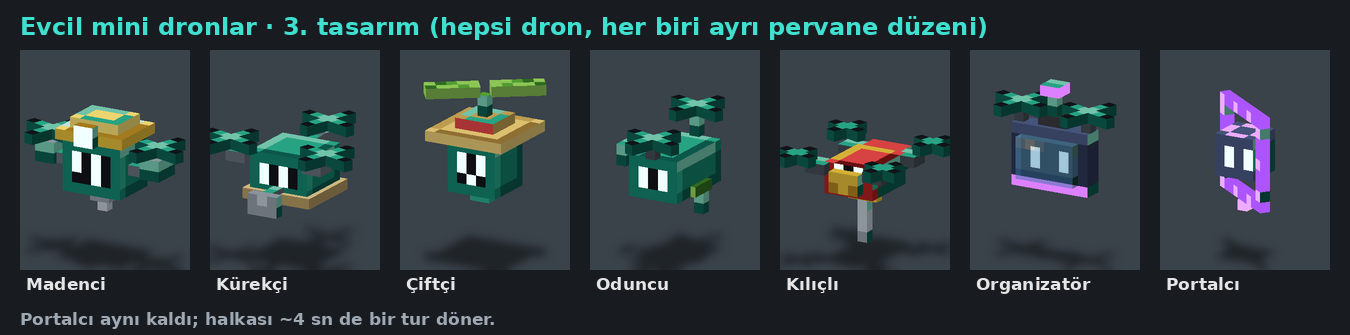
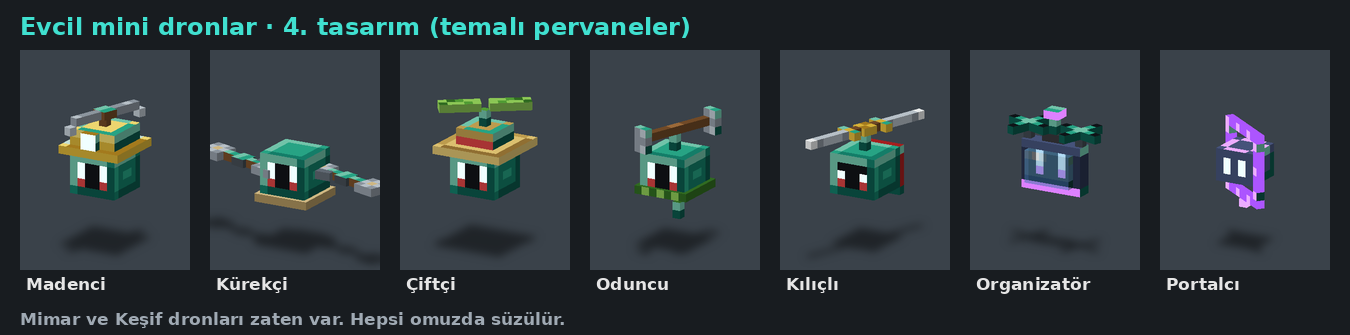
Evcil dronlar 4. tasarım: Mimar dronu yüzü (simetrik gözler), temalı pervaneler (kazma, kaşık, filiz, balta, kılıç)
Claude-Session: https://claude.ai/code/session_016dSUtqjRQFdnbyLYXoqgnG

diff --git a/aqualit/tasarim/evcil.py b/aqualit/tasarim/evcil.py
@@ -34,115 +34,113 @@ def pervane(f, bone, ad, c, r, y, eksen='y'):
              front=[[c_] for c_ in ('kL' + 'H' * (2 * r - 4) + 'Lk')[:2 * r]])
 
 
-def yuz(w, h, renk='M', sert=False, agiz=True):
-    """Dron yüzü: koyu ekran, iki ışıklı göz, küçük ağız (Mimar dronu gibi sevimli)."""
-    g = fill(w, h, renk)
-    for y in range(1, h - 1):
-        for x in range(1, w - 1):
-            g[y][x] = 'k'
-    ex = [1, w - 3] if w >= 6 else [1, w - 2]
-    for x in ex:
-        if sert:
-            g[1][x] = 'k'; g[1][x + (1 if x == ex[0] else -1) * 0] = 'k'
-            g[2][x] = 'W'
-            if x + 1 < w - 1:
-                g[2][x + 1] = 'W'
-        else:
-            g[1][x] = 'W'; g[2][x] = 'W'
-            if w >= 7 and x + 1 < w - 1:
-                g[1][x + 1] = 'W'; g[2][x + 1] = 'W'
-    if agiz and h >= 5:
-        g[h - 2][w // 2] = 'W' if not sert else 'k'
+from robot import plate, put, G
+
+
+def yuz6(renk='M', sert=False):
+    """Mimar dronundaki yüz (6x5): iki dik göz, gülen ağız, pembe yanaklar. sert: kısık gözler, düz ağız."""
+    g = plate(6, 5, renk, top='H', bottom='D', left='H', right='D')
+    put(g, ['WkkW', 'WkkW'] if not sert else ['kkkk', 'WkkW'], 1, 1)
+    if sert:
+        g[3][2] = g[3][3] = 'k'
+        g[3][1] = g[3][4] = 'R'
+    else:
+        g[3][2] = g[3][3] = 'k'
+        g[3][1] = g[3][4] = 'R'
     return g
 
 
+def govde6(f, renk='M', sert=False, y0=3):
+    """Mimar dronu boyunda gövde (6x5x6), önde yüz."""
+    yan = plate(6, 5, renk, top='H', bottom='D', left='L', right='D')
+    yan[2][2] = yan[2][3] = 'L'
+    kutu(f, 'g', 'govde', (-3, y0, -3), (3, y0 + 5, 3), base=renk, front=yuz6(renk, sert), left=yan,
+         right=[r[:] for r in yan], back=plate(6, 5, renk), top=plate(6, 6, 'L', top='H', bottom='M', left='H', right='M'),
+         glow='W')
+
+
 def madenci(f):
-    # gövde + madenci kaskı ve fener; iki yan kanatçıkta döner (tilt) pervaneler; altta mini matkap ucu
-    kutu(f, 'g', 'govde', (-3, 3, -2.5), (3, 8, 2.5), base='M', front=yuz(6, 5), glow='W',
-         top=panel(6, 5, 'L', t='H', b='D', l='H', r='D'))
-    kutu(f, 'g', 'kask', (-3.5, 8, -3), (3.5, 9, 3), base='y', top=panel(7, 6, 'Y', t='W', b='Q', l='W', r='Q'))
-    kutu(f, 'g', 'kask2', (-2.5, 9, -2), (2.5, 10, 2), base='Y')
-    kutu(f, 'g', 'fener', (-1, 8, 3), (1, 10, 4), base='Q', front=rows('WW', 'WW'), glow='W')
-    for ad, sx in (('l', -1), ('r', 1)):
-        kutu(f, 'g', 'kanat_' + ad, (min(sx * 3, sx * 5), 5, -1), (max(sx * 3, sx * 5), 6, 1), base='&')
-        kutu(f, 'g', 'nasel_' + ad, (sx * 5.5 - 1, 5, -1.5), (sx * 5.5 + 1, 7, 1.5), base='%', top=fill(2, 3, '*'))
-        pervane(f, 'g', 'p_' + ad, (sx * 5.5, 7.5, 0), 3, 7.5)
-    kutu(f, 'g', 'matkap1', (-1, 2, -1), (1, 3, 1), base='*')
-    kutu(f, 'g', 'matkap2', (-0.5, 1, -0.5), (0.5, 2, 0.5), base='+')
+    # madenci kaskı + fener; tepede kazma başı biçimli pervane (iki sivri ucu hafif aşağı kıvrık)
+    govde6(f)
+    kutu(f, 'g', 'kask', (-4, 8, -4), (4, 9, 4), base='y', top=panel(8, 8, 'Y', t='W', b='Q', l='W', r='Q'))
+    kutu(f, 'g', 'kask2', (-3, 9, -3), (3, 11, 3), base='Y', front=rows('YYYYYY', 'yyyyyy'))
+    kutu(f, 'g', 'fener', (-1, 9, 3), (1, 11, 4), base='Q', front=rows('WW', 'WW'), glow='W')
+    kutu(f, 'g', 'mil', (-0.5, 11, -0.5), (0.5, 12, 0.5), base='m')
+    f.bone('p_kazma', 'g', (0, 12.5, 0))
+    kutu(f, 'p_kazma', 'kz_gobek', (-1, 12, -1), (1, 13, 1), base='m')
+    kutu(f, 'p_kazma', 'kz_kol', (-5, 12, -0.5), (5, 13, 0.5), base='*', top=rows('+*******+*'), front=rows('**********'))
+    for ad, x in (('l', -6), ('r', 5)):
+        kutu(f, 'p_kazma', 'kz_uc_' + ad, (x, 11, -0.5), (x + 1, 12, 0.5), base='+')
 
 
 def kurekci(f):
-    # yassı gövde; Y düzeninde üç pervane (önde iki, arkada bir); kum rengi alt etek; önde mini kepçe kolu
-    kutu(f, 'g', 'govde', (-3, 3, -3), (3, 7, 3), base='M', front=yuz(6, 4, agiz=False), glow='W',
-         top=panel(6, 6, 'L', t='H', b='D', l='H', r='D'))
-    kutu(f, 'g', 'etek', (-3.5, 2.5, -3.5), (3.5, 3.5, 3.5), base='N', top=fill(7, 7, 'n'))
-    for ad, (x, z) in (('fl', (-5, 3)), ('fr', (5, 3)), ('b', (0, -6))):
-        a = (min(0, x) if x else -0.5, 6, min(0, z)); b = (max(0, x) if x else 0.5, 7, max(0, z))
-        if x == 0:
-            a, b = (-0.5, 6, z), (0.5, 7, -3)
-        else:
-            a, b = (min(x * 0.6, x), 6, min(z * 0.6, z) - 0.5 + 0.5), (max(x * 0.6, x), 7, max(z * 0.6, z) + 0.5 + 0.5)
-            a = (round(a[0]), 6, round(a[2])); b = (round(b[0]), 7, round(b[2]))
-            if b[2] - a[2] < 1:
-                b = (b[0], 7, a[2] + 1)
-        kutu(f, 'g', 'kol_' + ad, a, b, base='&')
-        pervane(f, 'g', 'p_' + ad, (x, 7.5, z), 3, 7.5)
-    kutu(f, 'g', 'kepce_kol', (-0.5, 3, 3), (0.5, 4, 5), base='&')
-    kutu(f, 'g', 'kepce', (-1.5, 2, 5), (1.5, 4, 6), base='*', front=rows('*+*', '***'))
+    # kum renkli botlar; iki yanda yatay dönen kaşık (kürek ağzı) biçimli pervaneler: kumu arkaya atar gibi
+    govde6(f)
+    kutu(f, 'g', 'bot', (-3.5, 2, -3.5), (3.5, 3, 3.5), base='N', top=fill(7, 7, 'n'))
+    kutu(f, 'g', 'torba', (-2, 4, -4), (2, 7, -3), base='n', back=rows('nNnN', 'NnNn', 'nNnN'))
+    for ad, sx in (('l', -1), ('r', 1)):
+        kutu(f, 'g', 'kol_' + ad, (min(sx * 3, sx * 5), 5, -0.5), (max(sx * 3, sx * 5), 6, 0.5), base='&')
+        pb = 'p_' + ad
+        cx = sx * 7
+        f.bone(pb, 'g', (cx, 5.5, 0))
+        kutu(f, pb, pb + '_gobek', (cx - 1, 5, -1), (cx + 1, 6, 1), base='%')
+        for k, sz in enumerate((1, -1)):
+            # sap + kaşık ağzı (ortası çukur: koyu, kenarı çelik, içinde kum)
+            kutu(f, pb, f'{pb}_sap{k}', (cx - 0.5, 5, min(sz * 1, sz * 3)), (cx + 0.5, 6, max(sz * 1, sz * 3)), base='m')
+            kutu(f, pb, f'{pb}_kasik{k}', (cx - 1.5, 5, min(sz * 3, sz * 6)), (cx + 1.5, 6, max(sz * 3, sz * 6)), base='*',
+                 top=rows('*+*', '+n+', '*+*'), bottom=fill(3, 3, '%'))
 
 
 def ciftci(f):
-    # gövde + hasır şapka kenarı; şapkanın tepesinden çıkan filiz; filizin iki yaprağı pervane gibi döner
-    kutu(f, 'g', 'govde', (-2.5, 3, -2.5), (2.5, 8, 2.5), base='M', front=yuz(5, 5), glow='W',
-         top=panel(5, 5, 'L', t='H', b='D', l='H', r='D'))
-    kutu(f, 'g', 'sapka_kenar', (-4, 8, -4), (4, 9, 4), base='w', top=panel(8, 8, 'w', t='x', b='X', l='x', r='X'))
-    kutu(f, 'g', 'sapka_tepe', (-2, 9, -2), (2, 10, 2), base='x', front=rows('RRRR'))
-    kutu(f, 'g', 'filiz', (-0.5, 10, -0.5), (0.5, 12, 0.5), base='e')
-    f.bone('p_yaprak', 'g', (0, 12.5, 0))
-    kutu(f, 'p_yaprak', 'yaprak1', (-5.5, 12, -1), (-0.5, 13, 1), base='f', top=rows('Effef', 'fEeff'))
-    kutu(f, 'p_yaprak', 'yaprak2', (0.5, 12, -1), (5.5, 13, 1), base='f', top=rows('feffE', 'ffeEf'))
-    kutu(f, 'g', 'itici', (-1, 2, -1), (1, 3, 1), base='L', bottom=rows('HW', 'WH'), glow='W')
+    # hasır şapka; şapkanın tepesinden çıkan filiz, iki yaprağı pervane gibi döner
+    govde6(f)
+    kutu(f, 'g', 'sapka_kenar', (-4.5, 8, -4.5), (4.5, 9, 4.5), base='w', top=panel(9, 9, 'w', t='x', b='X', l='x', r='X'))
+    kutu(f, 'g', 'sapka_tepe', (-2.5, 9, -2.5), (2.5, 11, 2.5), base='x', front=rows('xxxxx', 'RRRRR'))
+    kutu(f, 'g', 'filiz', (-0.5, 11, -0.5), (0.5, 13, 0.5), base='e')
+    f.bone('p_yaprak', 'g', (0, 13.5, 0))
+    kutu(f, 'p_yaprak', 'yaprak1', (-5.5, 13, -1), (-0.5, 14, 1), base='f', top=rows('Effef', 'fEeff'))
+    kutu(f, 'p_yaprak', 'yaprak2', (0.5, 13, -1), (5.5, 14, 1), base='f', top=rows('feffE', 'ffeEf'))
 
 
 def oduncu(f):
-    # uzun gövde; önde ve arkada iki büyük pervane (çift rotorlu helikopter gibi); yeşil atkı; yan kolda balta
-    kutu(f, 'g', 'govde', (-2.5, 3, -4), (2.5, 7, 4), base='M', front=yuz(5, 4, agiz=False), glow='W',
-         top=panel(5, 8, 'L', t='H', b='D', l='H', r='D'))
-    kutu(f, 'g', 'atki', (-3, 3, -1.5), (3, 4, 1.5), base='E', front=rows('EfEfEf'), top=fill(6, 3, 'E'))
-    kutu(f, 'g', 'atki_uc', (2, 1, -1), (3, 3, 0), base='E')
-    for ad, z in (('on', 4), ('arka', -4)):
-        kutu(f, 'g', 'direk_' + ad, (-0.5, 7, z - 0.5 - (0 if z > 0 else 0)), (0.5, 8 + (1 if z < 0 else 0), z + 0.5), base='%')
-        pervane(f, 'g', 'p_' + ad, (0, 8.5 + (1 if z < 0 else 0), z), 3, 8.5)
-    kutu(f, 'g', 'balta_sap', (-4, 3, 0), (-3, 7, 1), base='m')
-    kutu(f, 'g', 'balta_bas', (-5, 5, 0), (-4, 7, 2), base='*', left=rows('+*', '**'))
+    # yeşil atkı; tepede çift balta biçimli pervane (ortada sap, iki ucunda dik balta ağzı)
+    govde6(f)
+    kutu(f, 'g', 'atki', (-3.5, 3, -3.5), (3.5, 4, 3.5), base='E', front=rows('EfEfEfE'), top=fill(7, 7, 'E'))
+    kutu(f, 'g', 'atki_uc', (2, 1, 3), (3, 3, 4), base='E')
+    kutu(f, 'g', 'mil', (-0.5, 8, -0.5), (0.5, 10, 0.5), base='%')
+    f.bone('p_balta', 'g', (0, 10.5, 0))
+    kutu(f, 'p_balta', 'b_sap', (-5, 10, -0.5), (5, 11, 0.5), base='m', top=rows('mmmmoommmm'))
+    for ad, x in (('l', -6), ('r', 5)):
+        kutu(f, 'p_balta', 'b_agiz_' + ad, (x, 9, -0.5), (x + 1, 12, 1.5), base='*',
+             left=rows('*+', '**', '*+'), right=rows('+*', '**', '+*'))
 
 
 def kilicli(f):
-    # sivri, köşeli hızlı gövde; çatık gözler; çapraz 4 küçük pervane (yarış dronu); arkada kırmızı pelerin kanadı
-    kutu(f, 'g', 'govde', (-2.5, 3, -3), (2.5, 6, 3), base='r', front=over(fill(5, 3, 'r'), rows('WkW', 'kWk'), 1, 0), glow='W',
-         top=panel(5, 6, 'R', t='y', b='q', l='y', r='q'))
-    kutu(f, 'g', 'burun', (-1.5, 3.5, 3), (1.5, 5.5, 4), base='y', front=rows('yyy', 'QyQ'))
-    kutu(f, 'g', 'pelerin', (-2, 4, -5), (2, 6, -3), base='q', back=rows('RRRR', 'qqqq'), top=fill(4, 2, 'R'))
-    for ad, sx, sz in (('fl', 1, 1), ('fr', -1, 1), ('bl', 1, -1), ('br', -1, -1)):
-        kutu(f, 'g', 'kol_' + ad, (min(sx * 2, sx * 4), 5, min(sz * 2, sz * 4)), (max(sx * 2, sx * 4), 6, max(sz * 2, sz * 4)),
-             base='%')
-        pervane(f, 'g', 'p_' + ad, (sx * 4.5, 6.5, sz * 4.5), 2, 6.5)
-    kutu(f, 'g', 'kilic_kabza', (-1.5, 2, -0.5), (1.5, 3, 0.5), base='y')
-    kutu(f, 'g', 'kilic', (-0.5, -2, -0.5), (0.5, 2, 0.5), base='+', front=rows('+', '+', '+', '*'))
+    # kırmızı pelerin, kararlı bakış; tepede iki kılıçtan pervane (kabzalar göbekte, ağızlar dışa)
+    govde6(f, sert=True)
+    kutu(f, 'g', 'pelerin', (-3, 2, -4), (3, 8, -3), base='r', back=over(fill(6, 6, 'r'), rows('RRRRRR'), 0, 0))
+    kutu(f, 'g', 'mil', (-0.5, 8, -0.5), (0.5, 10, 0.5), base='y')
+    f.bone('p_kilic', 'g', (0, 10.5, 0))
+    kutu(f, 'p_kilic', 'k_gobek', (-1, 10, -1), (1, 11, 1), base='y', top=rows('yQ', 'Qy'))
+    for ad, sx in (('l', -1), ('r', 1)):
+        kutu(f, 'p_kilic', 'k_kabza_' + ad, (min(sx * 1, sx * 2), 10, -0.5), (max(sx * 1, sx * 2), 11, 0.5), base='m')
+        kutu(f, 'p_kilic', 'k_siper_' + ad, (min(sx * 2, sx * 3), 10, -1.5), (max(sx * 2, sx * 3), 11, 1.5), base='y')
+        kutu(f, 'p_kilic', 'k_agiz_' + ad, (min(sx * 3, sx * 8), 10, -0.5), (max(sx * 3, sx * 8), 11, 0.5), base='+',
+             top=rows('+++++' if sx > 0 else '+++++'), front=rows('*+++*' if True else ''))
+        kutu(f, 'p_kilic', 'k_uc_' + ad, (min(sx * 8, sx * 9), 10, -0.5), (max(sx * 8, sx * 9), 11, 0.5), base='9')
 
 
 def organizator(f, cam=True):
-    # dik duran ince tablet (ekranı öne bakar), cam ekranın ardında gözler; üst köşelerde iki pervane; mor şerit;
-    # tepede kulaklık bandı ve mikrofon anteni
+    # dik duran ince tablet (ekranı öne bakar); cam ekranın ardında Mimar dronundaki gibi gözler; üstte iki pervane
     on = fill(8, 6, '1')
     for x in range(8):
         on[0][x] = '3'; on[5][x] = 'P'
     for y in range(1, 5):
         for x in range(1, 7):
             on[y][x] = 'k'
-    over(on, rows('W  W', 'W  W'), 2, 2)
-    for y in (2, 3):
-        on[y][3] = 'k'; on[y][4] = 'k'
+    put(on, ['WkkW', 'WkkW'], 2, 1)
+    on[3][3] = on[3][4] = 'k'
+    on[3][2] = on[3][5] = 'P'
     kutu(f, 'g', 'tablet', (-4, 3, -1), (4, 9, 1), base='1', front=on, glow='WP',
          top=fill(8, 2, '3'), back=fill(8, 6, '2'))
     if cam:
@@ -164,8 +162,8 @@ def portalci(f):
         kutu(f, 'halka', 'h_' + nm, aa, bb, base='ğ', glow='ğüÇ',
              front=[['ü' if (i + j) % 3 == 0 else 'ğ' for i in range(w_)] for j in range(h_)],
              back=[['ü' if (i + j) % 3 == 1 else 'ğ' for i in range(w_)] for j in range(h_)])
-    kutu(f, 'g', 'kure', (-2, 4.5, -2), (2, 8.5, 2), base='3', front=rows('3333', '3W3W', '3W3W', '3333')[:4], glow='Wü',
-         top=rows('3üü3', 'ü33ü', 'ü33ü', '3üü3'))
+    kutu(f, 'g', 'kure', (-2.5, 4.5, -2.5), (2.5, 8.5, 2.5), base='3', front=rows('33333', '3W3W3', '3W3W3', '33333'),
+         glow='Wü', top=rows('3üüü3', 'ü333ü', 'ü333ü', 'ü333ü', '3üüü3'))
     kutu(f, 'g', 'iz', (-0.5, 1, -0.5), (0.5, 2, 0.5), base='ü', glow='ü')
 
 
@@ -186,7 +184,7 @@ def evcil(tur, cam=True):
 
 def poz(t, tur):
     p = {'g': {'p': [0, math.sin(t * 6.283) * 0.5, 0]}}
-    for ad in ('p_l', 'p_r', 'p_fl', 'p_fr', 'p_bl', 'p_br', 'p_b', 'p_on', 'p_arka'):
+    for ad in ('p_l', 'p_r', 'p_kazma', 'p_balta', 'p_kilic'):
         p[ad] = [0, t * 2880, 0]
     p['p_yaprak'] = [0, t * 1440, 0]
     p['halka'] = [0, t * 360, 0]   # GIF 72 kare x 60 ms = ~4,3 sn'de bir tur (ne hızlı ne çok yavaş)
@@ -211,11 +209,11 @@ if __name__ == '__main__':
         t = i / 72
         c = Image.new('RGB', (7 * 170, 230), (24, 28, 32))
         for k, tur in enumerate(TURLER):
-            cam = Z.Cam(yaw=25 + 360 * t, elev=20, scale=11, size=(170, 230), center=(0, 6, 0))
+            cam = Z.Cam(yaw=25 + 360 * t, elev=20, scale=8.5, size=(170, 230), center=(0, 7, 0))
             c.paste(ciz(tur, cam, t, M, C), (k * 170, 0))
         frames.append(c)
     print(Z.gif(frames, os.path.join(OUT, '84_evcil_dronlar.gif'), ms=60))
-    imgs = [(ciz(tur, Z.Cam(yaw=30, elev=18, scale=11, size=(170, 220), center=(0, 6, 0)), 0.1, M, C), ADLAR[tur])
+    imgs = [(ciz(tur, Z.Cam(yaw=30, elev=18, scale=8.5, size=(170, 220), center=(0, 7, 0)), 0.1, M, C), ADLAR[tur])
             for tur in TURLER]
-    print(kart('Evcil mini dronlar · 3. tasarım (hepsi dron, her biri ayrı pervane düzeni)', imgs, os.path.join(OUT, '84_evcil_dronlar.png'),
+    print(kart('Evcil mini dronlar · 4. tasarım (temalı pervaneler)', imgs, os.path.join(OUT, '84_evcil_dronlar.png'),
                alt='Mimar ve Keşif dronları zaten var. Hepsi omuzda süzülür.'))
